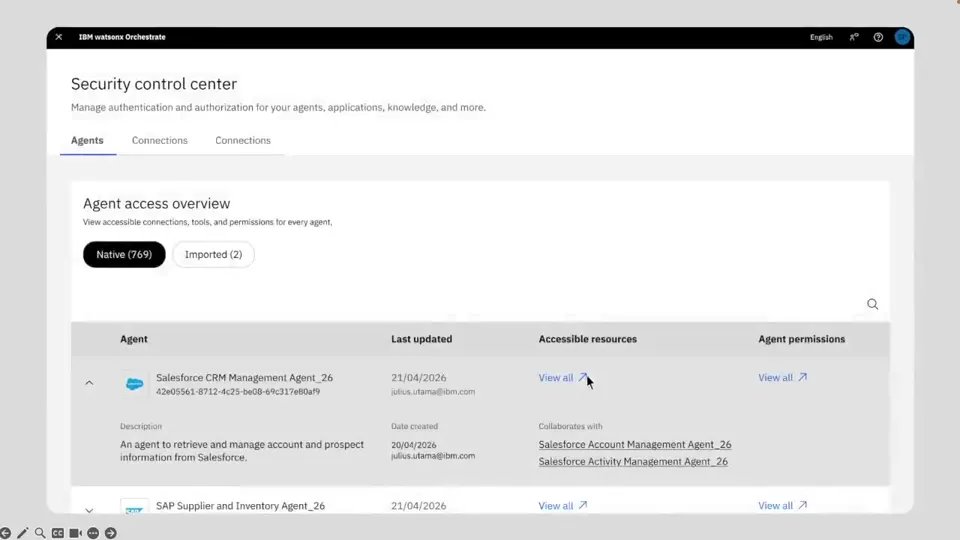
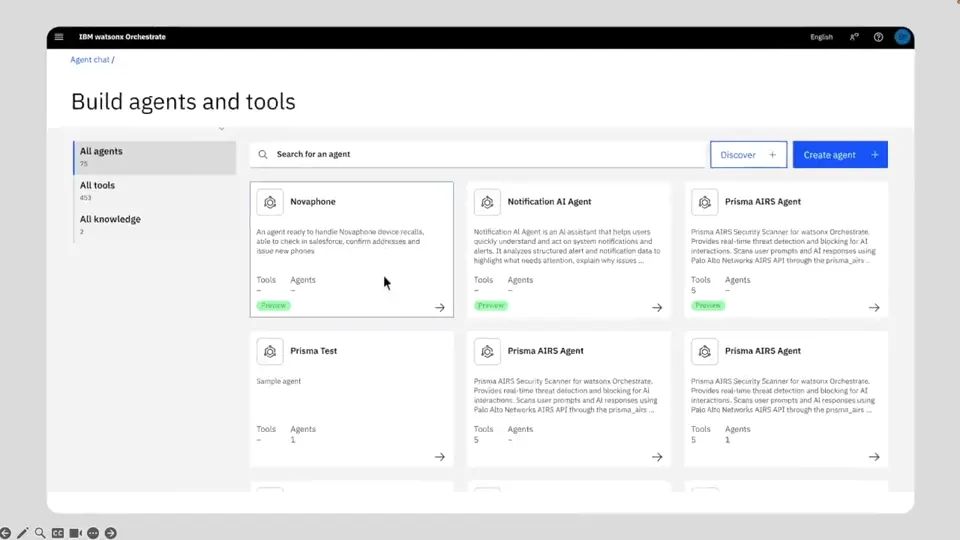
Home: 2x2 featured work gallery, compact appearances line, tighter hero
- Selected work is now a 2x2 gallery (Orchestrate, Assistant, Visual
  Inspection, BookJumpr): 16:9 poster, one-line outcome, action label;
  fine pointers play a muted clip on hover/focus (one at a time), cards
  fade in on scroll; single column on mobile
- Remaining two projects move to a compact 'More projects' list
- Recent appearances collapses to a single line with a See all link
- Reduce hero and section padding so the work starts higher
- Brighter poster/thumb frame for the Orchestrate clip

Claude-Session: https://claude.ai/code/session_014cf8nXgqQfGU71s5zEtRgL

diff --git a/index.html b/index.html
@@ -124,6 +124,41 @@
   #work-peek .pk{width:100%;height:100%;border:1.5px solid #101012;border-radius:12px;overflow:hidden;background:#101012;box-shadow:0 26px 50px -22px rgba(16,16,18,.6);opacity:0;transform:scale(.94) rotate(-1.5deg);transition:opacity .2s ease,transform .25s cubic-bezier(.2,.8,.3,1)}
   #work-peek.on .pk{opacity:1;transform:scale(1) rotate(0)}
   #work-peek img{width:100%;height:100%;object-fit:cover;display:block}
+  /* Featured work gallery (2x2) */
+  .wgrid{display:grid;grid-template-columns:repeat(2,minmax(0,1fr));gap:clamp(26px,3.4vw,46px) clamp(20px,2.6vw,36px)}
+  .wcard{position:relative;transition:transform .3s cubic-bezier(.2,.8,.3,1)}
+  .wcard:hover{transform:translateY(-4px)}
+  .wcard.rv{opacity:0;translate:0 26px;transition:opacity .6s ease,translate .6s cubic-bezier(.2,.8,.3,1),transform .3s cubic-bezier(.2,.8,.3,1)}
+  .wcard.rv.in{opacity:1;translate:0 0}
+  .wmedia{position:relative;aspect-ratio:16/9;border:1.5px solid #101012;border-radius:16px;overflow:hidden;background:#101012;box-shadow:0 22px 46px -26px rgba(16,16,18,.45);transition:box-shadow .3s ease}
+  .wcard:hover .wmedia,.wcard:focus-within .wmedia{box-shadow:0 32px 58px -26px rgba(16,16,18,.6)}
+  .wmedia img,.wmedia video{position:absolute;inset:0;width:100%;height:100%;object-fit:cover;display:block}
+  .wmedia img{transition:transform .7s cubic-bezier(.2,.8,.3,1)}
+  .wcard:hover .wmedia img{transform:scale(1.035)}
+  .wmedia video{opacity:0;transition:opacity .35s ease}
+  .wmedia video.live{opacity:1}
+  .wbadge{position:absolute;left:12px;top:12px;z-index:2;font-family:'IBM Plex Mono',monospace;font-size:11px;font-weight:600;color:#101012;background:#CDF34E;padding:5px 11px;border-radius:100px}
+  .whint{position:absolute;right:12px;bottom:12px;z-index:2;font-family:'IBM Plex Mono',monospace;font-size:11px;color:#fff;background:rgba(16,16,18,.72);padding:5px 10px;border-radius:100px;opacity:0;translate:0 4px;transition:opacity .25s ease,translate .25s ease}
+  .wcard:hover .whint{opacity:1;translate:0 0}
+  @media(hover:none){.whint{display:none}}
+  .wbody{padding:16px 2px 0}
+  .wmeta{font-family:'IBM Plex Mono',monospace;font-size:11px;letter-spacing:.05em;text-transform:uppercase;color:#6B7280;margin-bottom:8px}
+  .wcard h3{margin:0 0 8px;font-family:'Space Grotesk',sans-serif;font-weight:700;font-size:clamp(20px,2.2vw,28px);line-height:1.12;letter-spacing:-.03em}
+  .wcard p{margin:0 0 14px;color:#444A56;font-size:15px;line-height:1.55;max-width:46ch}
+  .wend{display:flex;flex-wrap:wrap;align-items:center;gap:6px 18px}
+  .wmain{color:inherit}
+  .wmain::after{content:"";position:absolute;inset:0;z-index:1}
+  .wcard .row-alt{z-index:3}
+  .wcard:hover .row-act,.wcard:focus-within .row-act{background-size:100% 42%}
+  .more-head{margin:clamp(34px,6vh,60px) 0 6px;font-family:'IBM Plex Mono',monospace;font-size:12px;letter-spacing:.14em;text-transform:uppercase;color:#6B7280}
+  /* Appearances: one compact line */
+  .app-strip{max-width:1340px;margin:0 auto;display:flex;flex-wrap:wrap;align-items:baseline;gap:10px 30px;padding:20px 6px;border-top:1px solid rgba(16,16,18,.14);border-bottom:1px solid rgba(16,16,18,.14)}
+  .app-lbl{font-family:'IBM Plex Mono',monospace;font-size:12px;letter-spacing:.14em;text-transform:uppercase;color:#6B7280}
+  .app-item{font-weight:600;font-size:15.5px;letter-spacing:-.01em;display:inline-flex;gap:8px;align-items:baseline;border-bottom:1.5px solid transparent;transition:border-color .2s}
+  .app-item:hover{border-color:#CDF34E}
+  .app-item i{font-style:normal;font-family:'IBM Plex Mono',monospace;font-weight:400;font-size:12px;color:#6B7280}
+  .app-all{margin-left:auto;font-weight:700;font-size:14px;background:linear-gradient(#CDF34E,#CDF34E) 0 92%/0% 42% no-repeat;transition:background-size .3s ease}
+  .app-all:hover{background-size:100% 42%}
   .nav-toggle-checkbox{display:none}
   .nav-hamburger{display:none;flex-direction:column;justify-content:center;gap:5px;width:30px;height:30px;cursor:pointer;flex-shrink:0;background:none;border:none;padding:0}
   .nav-hamburger span{display:block;height:2px;width:100%;background:#101012;border-radius:2px;transition:transform .25s ease,opacity .2s ease}
@@ -143,6 +178,8 @@
     [data-workrow]{grid-template-columns:96px 1fr!important;column-gap:14px!important;row-gap:6px!important;align-items:start!important}
     .row-thumb{display:block;grid-row:1 / span 2;grid-column:1;width:96px;height:54px;object-fit:cover;border-radius:8px;border:1.5px solid #101012;margin-top:3px}
     .row-end{flex-direction:row;align-items:center;gap:14px}
+    .wgrid{grid-template-columns:1fr}
+    .app-all{margin-left:0}
     #work-peek{display:none}
     [data-workrow] div[data-chip]{display:none!important}
     [data-workrow] > div:last-child{text-align:left!important}
@@ -188,7 +225,7 @@
   </div>
 
   <!-- HERO (two-column: statement + live pipeline panel) -->
-  <header data-screen-label="Hero" style="position:relative;overflow:hidden;padding:clamp(52px,9vh,116px) clamp(22px,5vw,80px) clamp(46px,8vh,92px)">
+  <header data-screen-label="Hero" style="position:relative;overflow:hidden;padding:clamp(34px,6vh,76px) clamp(22px,5vw,80px) clamp(30px,5vh,56px)">
     <div aria-hidden="true" style="position:absolute;left:0;right:0;top:0;bottom:0;background-image:radial-gradient(rgba(16,16,18,0.05) 1.1px,transparent 1.3px);background-size:22px 22px;z-index:0"></div>
     <svg id="dec-h1" aria-hidden="true" viewBox="0 0 100 100" style="position:absolute;left:clamp(2px,1vw,14px);top:clamp(22px,4vh,56px);z-index:1;width:clamp(28px,3vw,44px);height:auto;opacity:0.85;transform:rotate(18deg);pointer-events:none"><g style="animation:decBob 14.0s ease-in-out infinite alternate;animation-delay:-0.0s;transform-box:fill-box;transform-origin:center"><circle cx="46" cy="50" r="26" fill="#CDF34E"/><circle cx="80" cy="30" r="8.5" fill="#CDF34E"/><circle cx="22" cy="18" r="5" fill="#CDF34E"/><circle cx="86" cy="70" r="4" fill="#CDF34E"/><circle cx="34" cy="88" r="6.5" fill="#CDF34E"/><circle cx="8" cy="62" r="3.4" fill="#CDF34E"/></g></svg>
     <svg id="dec-h2" aria-hidden="true" viewBox="0 0 32 32" style="position:absolute;left:clamp(30px,6vw,110px);bottom:clamp(26px,5vh,74px);z-index:1;width:19px;height:auto;opacity:0.5;transform:rotate(-11deg);pointer-events:none"><g style="animation:decTwirl 32s linear infinite;animation-delay:-1.7s;transform-box:fill-box;transform-origin:center"><path d="M16 0 C17 10 22 15 32 16 C22 17 17 22 16 32 C15 22 10 17 0 16 C10 15 15 10 16 0 Z" fill="#101012"/></g></svg>
@@ -336,7 +373,7 @@
   </header>
 
   <!-- SELECTED WORK (index) -->
-  <section id="work" data-screen-label="Selected work" style="position:relative;padding:clamp(44px,7vh,84px) clamp(22px,5vw,80px) clamp(30px,4vh,52px)">
+  <section id="work" data-screen-label="Selected work" style="position:relative;padding:clamp(30px,4.5vh,52px) clamp(22px,5vw,80px) clamp(26px,4vh,44px)">
     <svg aria-hidden="true" viewBox="0 0 90 70" style="position:absolute;left:clamp(2px,1vw,18px);top:clamp(94px,14vh,180px);width:clamp(30px,3.4vw,46px);height:auto;opacity:0.55;transform:rotate(-16deg);pointer-events:none"><g style="animation:decSway 24.5s ease-in-out infinite alternate;animation-delay:-0.1s;transform-box:fill-box;transform-origin:center"><path d="M44 6 C62 2 82 16 80 36 C78 54 62 66 42 64 C22 62 6 48 8 28 C10 12 26 9 44 6 Z" fill="#CDF34E"/></g></svg>
     <svg aria-hidden="true" viewBox="0 0 100 40" style="position:absolute;right:clamp(6px,1.8vw,28px);top:clamp(30px,5vh,74px);width:36px;height:auto;opacity:0.35;transform:rotate(10deg);pointer-events:none"><g style="animation:decBob 13.5s ease-in-out infinite alternate;animation-delay:-1.8s;transform-box:fill-box;transform-origin:center"><circle cx="12" cy="20" r="8" fill="#101012"/><circle cx="46" cy="20" r="6" fill="#101012"/><circle cx="76" cy="20" r="4" fill="#101012"/></g></svg>
     <div style="max-width:1340px;margin:0 auto">
@@ -345,42 +382,58 @@
         <a class="btn-ol" href="/work" style="font-size:14px;padding:11px 22px">All work →</a>
       </div>
 
-      <div data-workrow data-peek="uploads/thumbs/wxo-demo-web.webp" style="position:relative;display:grid;grid-template-columns:1.4fr 1fr auto;gap:clamp(14px,2vw,28px);align-items:center;padding:clamp(18px,2.4vh,26px) 6px;border-top:1px solid rgba(16,16,18,0.14);transition:padding-left .3s ease">
-        <img class="row-thumb" src="uploads/thumbs/wxo-demo-web.webp" alt="" width="96" height="54" loading="lazy" decoding="async">
-        <div>
-          <a class="row-main" href="work.html#orchestrate"><h3 style="margin:0 0 3px;font-family:&#39;Space Grotesk&#39;,sans-serif;font-weight:700;font-size:clamp(18px,2vw,25px);letter-spacing:-0.025em">AI agent builder with multi-agent orchestration</h3></a>
-          <div style="font-family:&#39;IBM Plex Mono&#39;,monospace;font-size:11px;letter-spacing:0.05em;text-transform:uppercase;color:#6B7280">watsonx Orchestrate</div>
-        </div>
-        <div data-chip style="justify-self:start;font-family:&#39;IBM Plex Mono&#39;,monospace;font-size:11px;font-weight:600;color:#101012;background:#CDF34E;padding:6px 12px;border-radius:100px;opacity:0;transform:translateX(-6px);transition:opacity .3s ease,transform .3s ease">Designed for enterprise control</div>
-        <div class="row-end"><span class="row-act">Case study →</span><span class="row-year">2025—now</span></div>
+      <div class="wgrid">
+        <article class="wcard" data-vid="uploads/wxo-demo-web.mp4">
+          <div class="wmedia">
+            <img src="uploads/posters/wxo-demo-web-poster.webp" alt="" width="960" height="540" loading="lazy" decoding="async">
+            <span class="whint">▶ Hover to preview</span>
+          </div>
+          <div class="wbody">
+            <div class="wmeta">watsonx Orchestrate · IBM · 2025—now</div>
+            <h3><a class="wmain" href="work.html#orchestrate">AI agent builder with multi-agent orchestration</a></h3>
+            <p>Build, govern and observe enterprise AI agents across many agents, tools and knowledge bases.</p>
+            <div class="wend"><span class="row-act">Case study →</span></div>
+          </div>
+        </article>
+        <article class="wcard" data-vid="uploads/watsonxAssistantnocode.mp4">
+          <div class="wmedia">
+            <img src="uploads/posters/watsonxAssistantnocode-poster.webp" alt="" width="960" height="540" loading="lazy" decoding="async">
+            <span class="wbadge">Gartner Leader · 2021</span><span class="whint">▶ Hover to preview</span>
+          </div>
+          <div class="wbody">
+            <div class="wmeta">watsonx Assistant · IBM · 2021—24</div>
+            <h3><a class="wmain" href="work.html#assistant">A no-code way to build production AI assistants</a></h3>
+            <p>The conversation builder behind IBM’s most adopted AI product, handling millions of conversations a month.</p>
+            <div class="wend"><span class="row-act">Case study →</span></div>
+          </div>
+        </article>
+        <article class="wcard" data-vid="uploads/visinspect2.mp4">
+          <div class="wmedia">
+            <img src="uploads/posters/visinspect2-poster.webp" alt="" width="960" height="540" loading="lazy" decoding="async">
+            <span class="whint">▶ Hover to preview</span>
+          </div>
+          <div class="wbody">
+            <div class="wmeta">Visual Inspection · IBM · 2018—21</div>
+            <h3><a class="wmain" href="work.html#vision">Computer vision that catches defects on the line</a></h3>
+            <p>Train custom detection models, then run them offline on iPhones and Android phones.</p>
+            <div class="wend"><span class="row-act">Case study →</span></div>
+          </div>
+        </article>
+        <article class="wcard" data-vid="uploads/bookjumpr-web.mp4">
+          <div class="wmedia">
+            <img src="uploads/posters/bookjumpr-web-poster.webp" alt="" width="960" height="540" loading="lazy" decoding="async">
+            <span class="whint">▶ Hover to preview</span>
+          </div>
+          <div class="wbody">
+            <div class="wmeta">BookJumpr · Personal · Ongoing</div>
+            <h3><a class="wmain" href="https://bookjumpr.com" target="_blank" rel="noopener">Mapping every book mentioned inside other books</a></h3>
+            <p>A browsable graph of every explicit book mention across books. Pick a book and jump.</p>
+            <div class="wend"><span class="row-act">Visit site ↗</span><a class="row-alt" href="work.html#bookjumpr">Case study →</a></div>
+          </div>
+        </article>
       </div>
-      <div data-workrow data-peek="uploads/thumbs/watsonxAssistantnocode.webp" style="position:relative;display:grid;grid-template-columns:1.4fr 1fr auto;gap:clamp(14px,2vw,28px);align-items:center;padding:clamp(18px,2.4vh,26px) 6px;border-top:1px solid rgba(16,16,18,0.14);transition:padding-left .3s ease">
-        <img class="row-thumb" src="uploads/thumbs/watsonxAssistantnocode.webp" alt="" width="96" height="54" loading="lazy" decoding="async">
-        <div>
-          <a class="row-main" href="work.html#assistant"><h3 style="margin:0 0 3px;font-family:&#39;Space Grotesk&#39;,sans-serif;font-weight:700;font-size:clamp(18px,2vw,25px);letter-spacing:-0.025em">No-code way to build production AI assistants</h3></a>
-          <div style="font-family:&#39;IBM Plex Mono&#39;,monospace;font-size:11px;letter-spacing:0.05em;text-transform:uppercase;color:#6B7280">watsonx Assistant</div>
-        </div>
-        <div data-chip style="justify-self:start;font-family:&#39;IBM Plex Mono&#39;,monospace;font-size:11px;font-weight:600;color:#101012;background:#CDF34E;padding:6px 12px;border-radius:100px;opacity:0;transform:translateX(-6px);transition:opacity .3s ease,transform .3s ease">Millions of convos / mo</div>
-        <div class="row-end"><span class="row-act">Case study →</span><span class="row-year">2021—24</span></div>
-      </div>
-      <div data-workrow data-peek="uploads/thumbs/visinspect2.webp" style="position:relative;display:grid;grid-template-columns:1.4fr 1fr auto;gap:clamp(14px,2vw,28px);align-items:center;padding:clamp(18px,2.4vh,26px) 6px;border-top:1px solid rgba(16,16,18,0.14);transition:padding-left .3s ease">
-        <img class="row-thumb" src="uploads/thumbs/visinspect2.webp" alt="" width="96" height="54" loading="lazy" decoding="async">
-        <div>
-          <a class="row-main" href="work.html#vision"><h3 style="margin:0 0 3px;font-family:&#39;Space Grotesk&#39;,sans-serif;font-weight:700;font-size:clamp(18px,2vw,25px);letter-spacing:-0.025em">Computer vision that catches defects on the line</h3></a>
-          <div style="font-family:&#39;IBM Plex Mono&#39;,monospace;font-size:11px;letter-spacing:0.05em;text-transform:uppercase;color:#6B7280">Visual Inspection</div>
-        </div>
-        <div data-chip style="justify-self:start;font-family:&#39;IBM Plex Mono&#39;,monospace;font-size:11px;font-weight:600;color:#101012;background:#CDF34E;padding:6px 12px;border-radius:100px;opacity:0;transform:translateX(-6px);transition:opacity .3s ease,transform .3s ease">Runs offline on-device</div>
-        <div class="row-end"><span class="row-act">Case study →</span><span class="row-year">2018—21</span></div>
-      </div>
-      <div data-workrow data-peek="uploads/thumbs/bookjumpr-web.webp" style="position:relative;display:grid;grid-template-columns:1.4fr 1fr auto;gap:clamp(14px,2vw,28px);align-items:center;padding:clamp(18px,2.4vh,26px) 6px;border-top:1px solid rgba(16,16,18,0.14);transition:padding-left .3s ease">
-        <img class="row-thumb" src="uploads/thumbs/bookjumpr-web.webp" alt="" width="96" height="54" loading="lazy" decoding="async">
-        <div>
-          <a class="row-main" href="https://bookjumpr.com" target="_blank" rel="noopener"><h3 style="margin:0 0 3px;font-family:&#39;Space Grotesk&#39;,sans-serif;font-weight:700;font-size:clamp(18px,2vw,25px);letter-spacing:-0.025em">Mapping every book mentioned inside other books</h3></a>
-          <div style="font-family:&#39;IBM Plex Mono&#39;,monospace;font-size:11px;letter-spacing:0.05em;text-transform:uppercase;color:#6B7280">BookJumpr · Personal</div>
-        </div>
-        <div data-chip style="justify-self:start;font-family:&#39;IBM Plex Mono&#39;,monospace;font-size:11px;font-weight:600;color:#101012;background:#CDF34E;padding:6px 12px;border-radius:100px;opacity:0;transform:translateX(-6px);transition:opacity .3s ease,transform .3s ease">Side project</div>
-        <div class="row-end"><span class="row-act">Visit site ↗</span><a class="row-alt" href="work.html#bookjumpr">Case study →</a></div>
-      </div>
+
+      <div class="more-head">More projects</div>
       <div data-workrow data-peek="uploads/thumbs/book-giveaways.webp" style="position:relative;display:grid;grid-template-columns:1.4fr 1fr auto;gap:clamp(14px,2vw,28px);align-items:center;padding:clamp(18px,2.4vh,26px) 6px;border-top:1px solid rgba(16,16,18,0.14);transition:padding-left .3s ease">
         <img class="row-thumb" src="uploads/thumbs/book-giveaways.webp" alt="" width="96" height="54" loading="lazy" decoding="async">
         <div>
@@ -403,30 +456,16 @@
   </section>
 
   <!-- APPEARANCES -->
-  <section data-screen-label="Appearances" style="position:relative;padding:clamp(30px,4vh,52px) clamp(22px,5vw,80px) clamp(44px,7vh,84px)">
+  <section data-screen-label="Appearances" style="position:relative;padding:clamp(20px,3vh,36px) clamp(22px,5vw,80px) clamp(34px,5vh,56px)">
     <svg aria-hidden="true" viewBox="0 0 32 32" style="position:absolute;right:clamp(4px,1.4vw,24px);top:clamp(120px,17vh,210px);width:18px;height:auto;opacity:0.5;transform:rotate(14deg);pointer-events:none"><g style="animation:decTwirl 38s linear infinite;animation-delay:-0.2s;transform-box:fill-box;transform-origin:center"><path d="M16 0 C17 10 22 15 32 16 C22 17 17 22 16 32 C15 22 10 17 0 16 C10 15 15 10 16 0 Z" fill="#101012"/></g></svg>
     <svg aria-hidden="true" viewBox="0 0 100 100" style="position:absolute;left:clamp(2px,1vw,18px);bottom:clamp(40px,7vh,110px);width:clamp(28px,3.2vw,42px);height:auto;opacity:0.4;transform:rotate(-22deg);pointer-events:none"><g style="animation:decBob 21.0s ease-in-out infinite alternate;animation-delay:-1.9s;transform-box:fill-box;transform-origin:center"><circle cx="48" cy="52" r="24" fill="none" stroke="#101012" stroke-width="3"/><circle cx="82" cy="26" r="7" fill="#101012"/><circle cx="18" cy="24" r="4.5" fill="#101012"/><circle cx="30" cy="86" r="5.5" fill="#101012"/></g></svg>
     <svg aria-hidden="true" viewBox="0 0 100 100" style="position:absolute;right:clamp(8px,2vw,32px);bottom:clamp(150px,20vh,250px);width:13px;height:auto;opacity:0.8;transform:rotate(-8deg);pointer-events:none"><g style="animation:decPulse 9.0s ease-in-out infinite alternate;animation-delay:-3.6s;transform-box:fill-box;transform-origin:center"><polygon points="50,4 96,50 50,96 4,50" fill="#CDF34E"/></g></svg>
-    <div style="max-width:1340px;margin:0 auto">
-      <div style="display:flex;align-items:flex-end;justify-content:space-between;gap:24px;flex-wrap:wrap;margin-bottom:clamp(20px,3vh,32px)">
-        <h2 style="margin:0;font-family:&#39;Space Grotesk&#39;,sans-serif;font-weight:700;font-size:clamp(28px,4vw,54px);letter-spacing:-0.04em;line-height:1.0">Recent <span style="color:#B7BAC4">appearances.</span></h2>
-        <a class="btn-ol" href="/talks" style="font-size:14px;padding:11px 22px">All appearances →</a>
-      </div>
-      <a href="https://www.linkedin.com/posts/nikavagner_last-night-i-was-at-elevenlabsbrand-new-activity-7468696127215775744-x2E0" target="_blank" rel="noopener" class="app-row" style="display:grid;grid-template-columns:1fr 1.25fr auto;gap:20px 28px;align-items:baseline;padding:20px 6px;border-top:1px solid rgba(16,16,18,0.12);transition:padding-left .25s ease" style-hover="padding-left:10px">
-        <span style="font-weight:600;font-size:clamp(16px,1.7vw,20px);letter-spacing:-0.01em">Tech Week @ ElevenLabs</span>
-        <span style="color:#5C6470;font-size:15px">Speaker — building AI agents people actually trust ↗</span>
-        <span style="font-family:&#39;IBM Plex Mono&#39;,monospace;font-size:12px;color:#9AA0AB;text-align:right;white-space:nowrap">2026</span>
-      </a>
-      <a href="/talks" class="app-row" style="display:grid;grid-template-columns:1fr 1.25fr auto;gap:20px 28px;align-items:baseline;padding:20px 6px;border-top:1px solid rgba(16,16,18,0.12);transition:padding-left .25s ease" style-hover="padding-left:10px">
-        <span style="font-weight:600;font-size:clamp(16px,1.7vw,20px);letter-spacing:-0.01em">NYU Wagner</span>
-        <span style="color:#5C6470;font-size:15px">Guest lecturer — AI &amp; design thinking (recurring class)</span>
-        <span style="font-family:&#39;IBM Plex Mono&#39;,monospace;font-size:12px;color:#9AA0AB;text-align:right;white-space:nowrap">2022—26</span>
-      </a>
-      <a href="https://qatar.websummit.com/summaries/qat25/work-smarter-not-harder-build-an-ai-agent-in-5-minutes-hosted-by-ibm/" target="_blank" rel="noopener" class="app-row" style="display:grid;grid-template-columns:1fr 1.25fr auto;gap:20px 28px;align-items:baseline;padding:20px 6px;border-top:1px solid rgba(16,16,18,0.12);border-bottom:1px solid rgba(16,16,18,0.12);transition:padding-left .25s ease" style-hover="padding-left:10px">
-        <span style="font-weight:600;font-size:clamp(16px,1.7vw,20px);letter-spacing:-0.01em">Web Summit Qatar</span>
-        <span style="color:#5C6470;font-size:15px">Speaker — build an AI agent in 5 minutes, hosted by IBM ↗</span>
-        <span style="font-family:&#39;IBM Plex Mono&#39;,monospace;font-size:12px;color:#9AA0AB;text-align:right;white-space:nowrap">2025</span>
-      </a>
+    <div class="app-strip">
+      <span class="app-lbl">Recent appearances</span>
+      <a class="app-item" href="https://www.linkedin.com/posts/nikavagner_last-night-i-was-at-elevenlabsbrand-new-activity-7468696127215775744-x2E0" target="_blank" rel="noopener">Tech Week @ ElevenLabs <i>2026 ↗</i></a>
+      <a class="app-item" href="/talks">NYU Wagner <i>2022—26</i></a>
+      <a class="app-item" href="https://qatar.websummit.com/summaries/qat25/work-smarter-not-harder-build-an-ai-agent-in-5-minutes-hosted-by-ibm/" target="_blank" rel="noopener">Web Summit Qatar <i>2025 ↗</i></a>
+      <a class="app-all" href="/talks">See all →</a>
     </div>
   </section>
 
@@ -521,6 +560,41 @@ class Component extends DCLogic {
         peekHide();
       });
     });
+
+    // Featured gallery: fade cards in on scroll; on fine pointers a hover/keyboard focus plays the clip (one at a time).
+    const wcards = Array.from(document.querySelectorAll('.wcard'));
+    if ('IntersectionObserver' in window && !reduceW) {
+      wcards.forEach((c, i) => { c.classList.add('rv'); c.style.transitionDelay = ((i % 2) * 90) + 'ms,' + ((i % 2) * 90) + 'ms,0ms'; });
+      const wio = new IntersectionObserver((ents) => {
+        ents.forEach((e) => {
+          if (!e.isIntersecting) return;
+          e.target.classList.add('in'); wio.unobserve(e.target);
+          setTimeout(() => { e.target.style.transitionDelay = ''; }, 1000);
+        });
+      }, { threshold: 0.12 });
+      wcards.forEach((c) => wio.observe(c));
+      this._wio = wio;
+    }
+    if (finePtr && !reduceW) {
+      let playing = null;
+      const stop = (c) => { const v = c && c.querySelector('video'); if (v) { v.classList.remove('live'); v.pause(); } if (playing === c) playing = null; };
+      const play = (c) => {
+        if (playing && playing !== c) stop(playing);
+        playing = c;
+        const media = c.querySelector('.wmedia'); let v = media.querySelector('video');
+        if (!v) {
+          v = document.createElement('video'); v.muted = true; v.loop = true; v.playsInline = true; v.preload = 'auto';
+          v.setAttribute('aria-hidden', 'true'); v.src = c.dataset.vid; media.insertBefore(v, media.querySelector('.wbadge,.whint'));
+        }
+        const r = v.play(); if (r && r.then) r.then(() => { if (playing === c) v.classList.add('live'); }).catch(() => {});
+      };
+      wcards.forEach((c) => {
+        c.addEventListener('mouseenter', () => play(c));
+        c.addEventListener('mouseleave', () => stop(c));
+        c.addEventListener('focusin', (e) => { if (e.target.matches && e.target.matches(':focus-visible')) play(c); });
+        c.addEventListener('focusout', () => stop(c));
+      });
+    }
 
     // ---- Live pipeline panel ----
     // Each scene builds itself in via CSS when it gets the `.on` class. A thin bar along the stage bottom
@@ -663,6 +737,7 @@ class Component extends DCLogic {
     this.setState({ navGeos: navGeos });
   }
   componentWillUnmount() {
+    if (this._wio) this._wio.disconnect();
     if (this._peekEl) this._peekEl.remove();
     if (this._peekHide) window.removeEventListener('blur', this._peekHide);
     if (this._procStop) this._procStop();
